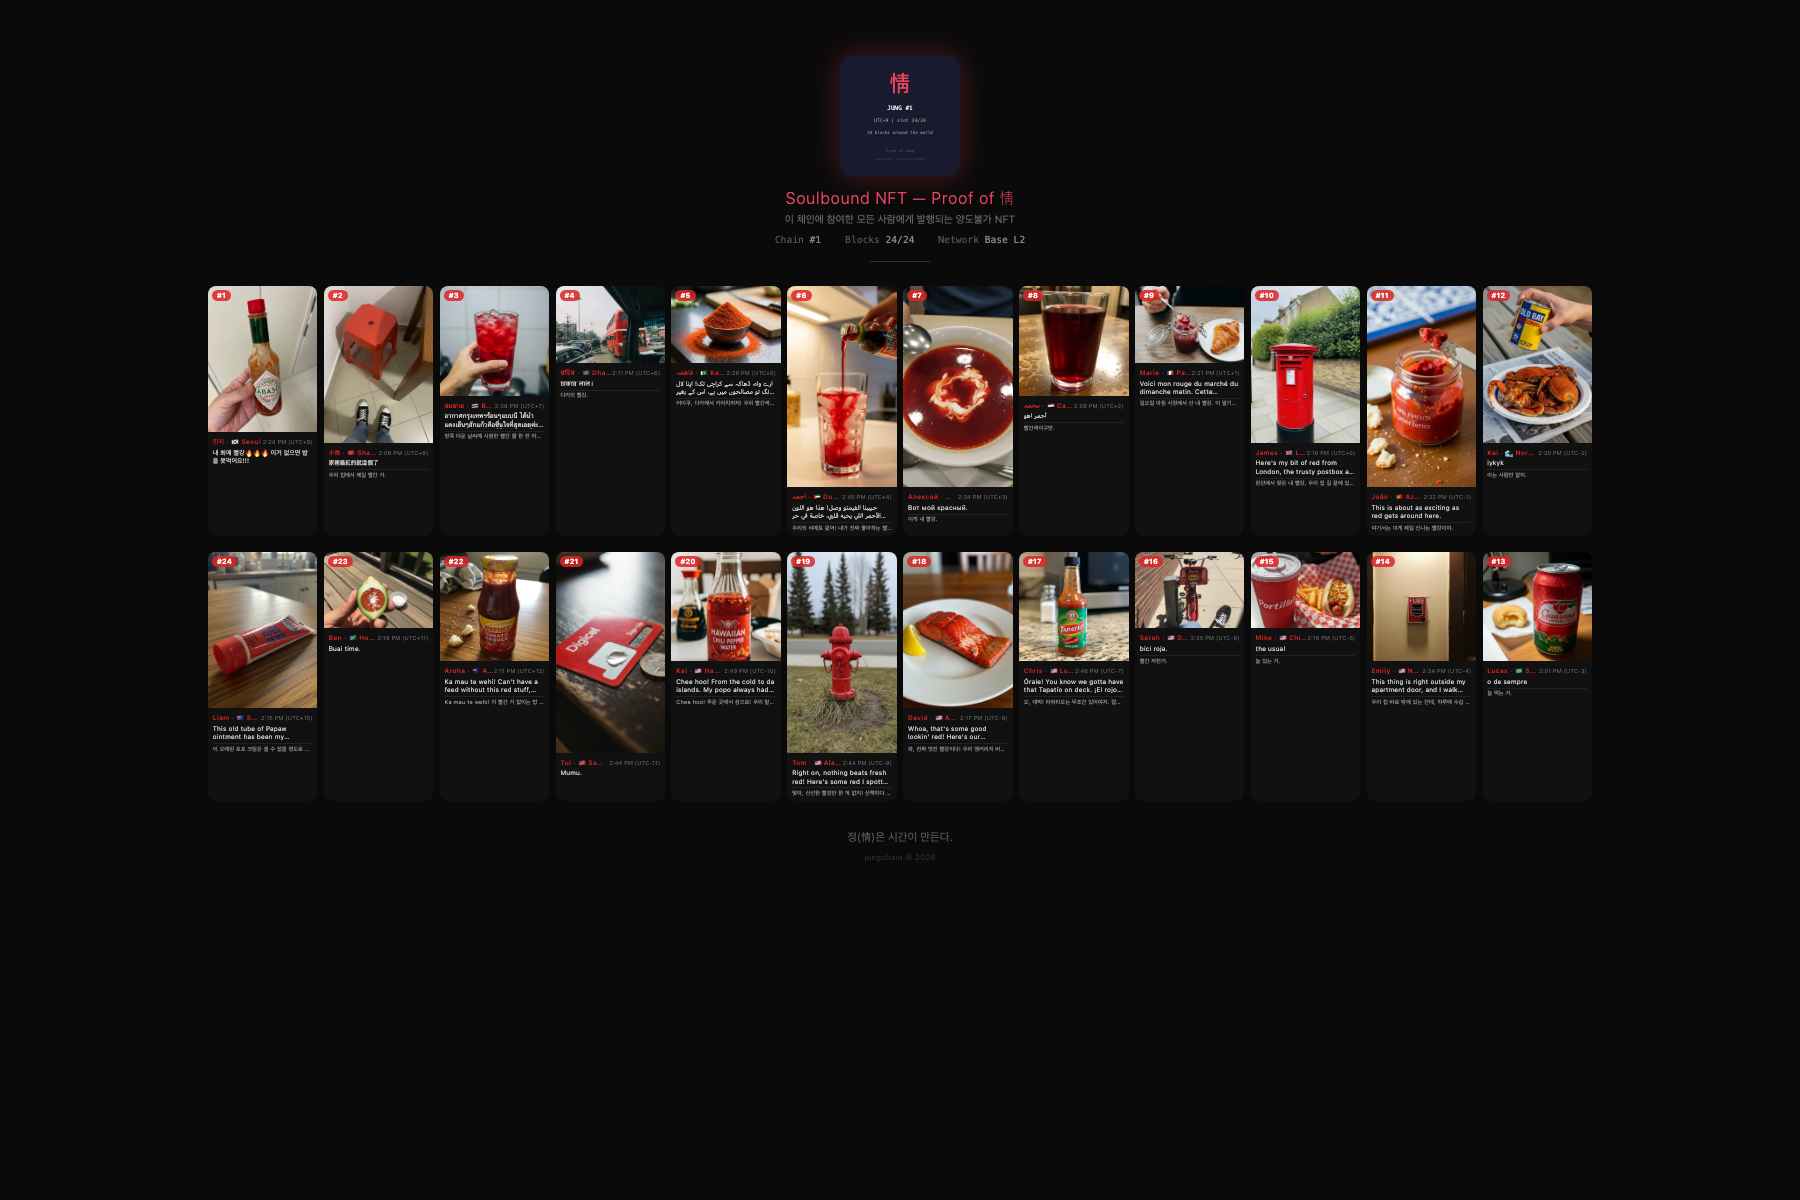
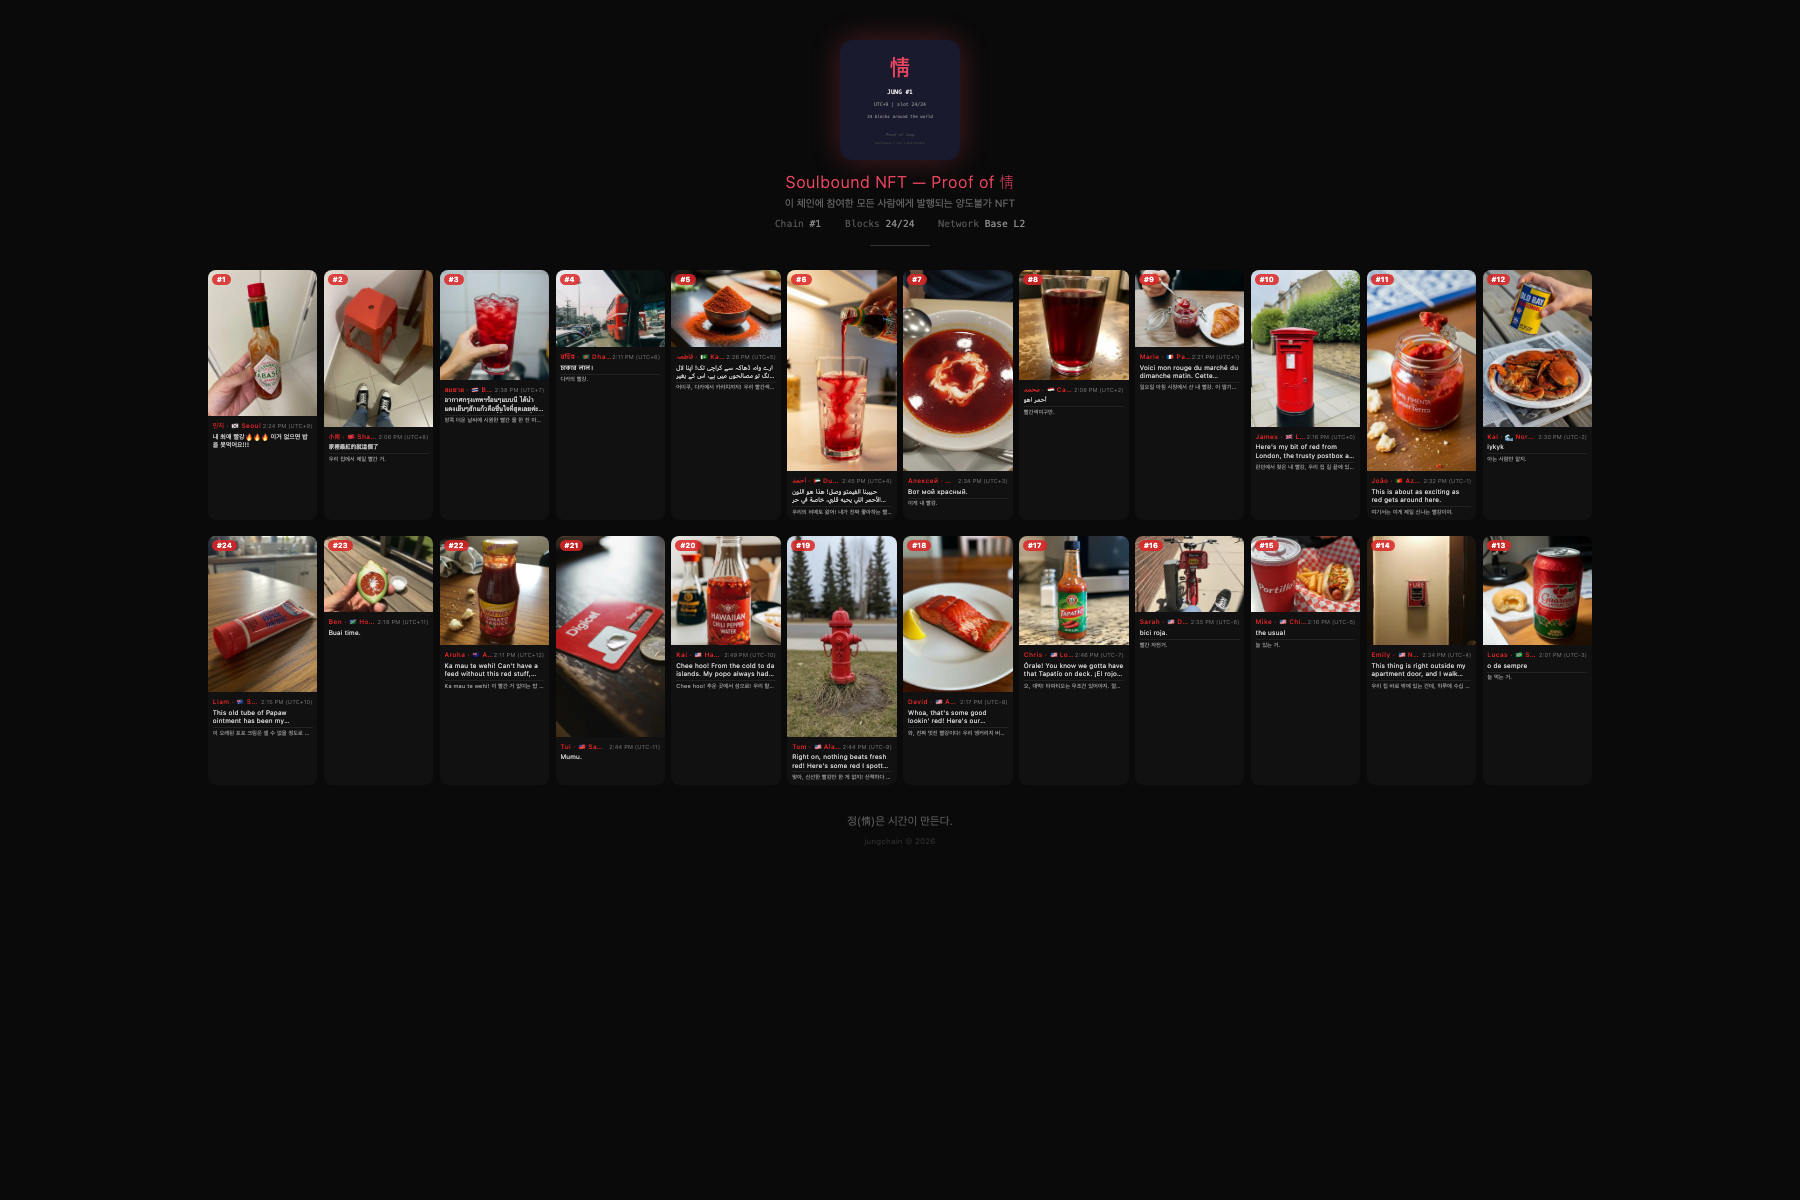
fix: reduce album showcase padding to match reference screenshot

Changed region(s): [[0.0933, 0.0308, 0.9022, 0.7092]]

diff --git a/data/album-showcase-snake.html b/data/album-showcase-snake.html
@@ -11,7 +11,7 @@
     color: #fff;
     font-family: -apple-system, BlinkMacSystemFont, 'Segoe UI', sans-serif;
     overflow-x: hidden;
-    padding: 2rem 1.5rem;
+    padding: 1rem 1rem;
   }
   .nft-hero {
     text-align: center;

diff --git a/data/album-showcase.html b/data/album-showcase.html
@@ -11,7 +11,7 @@
     color: #fff;
     font-family: -apple-system, BlinkMacSystemFont, 'Segoe UI', sans-serif;
     overflow-x: hidden;
-    padding: 2rem 1.5rem;
+    padding: 1rem 1rem;
   }
   .nft-hero {
     text-align: center;
